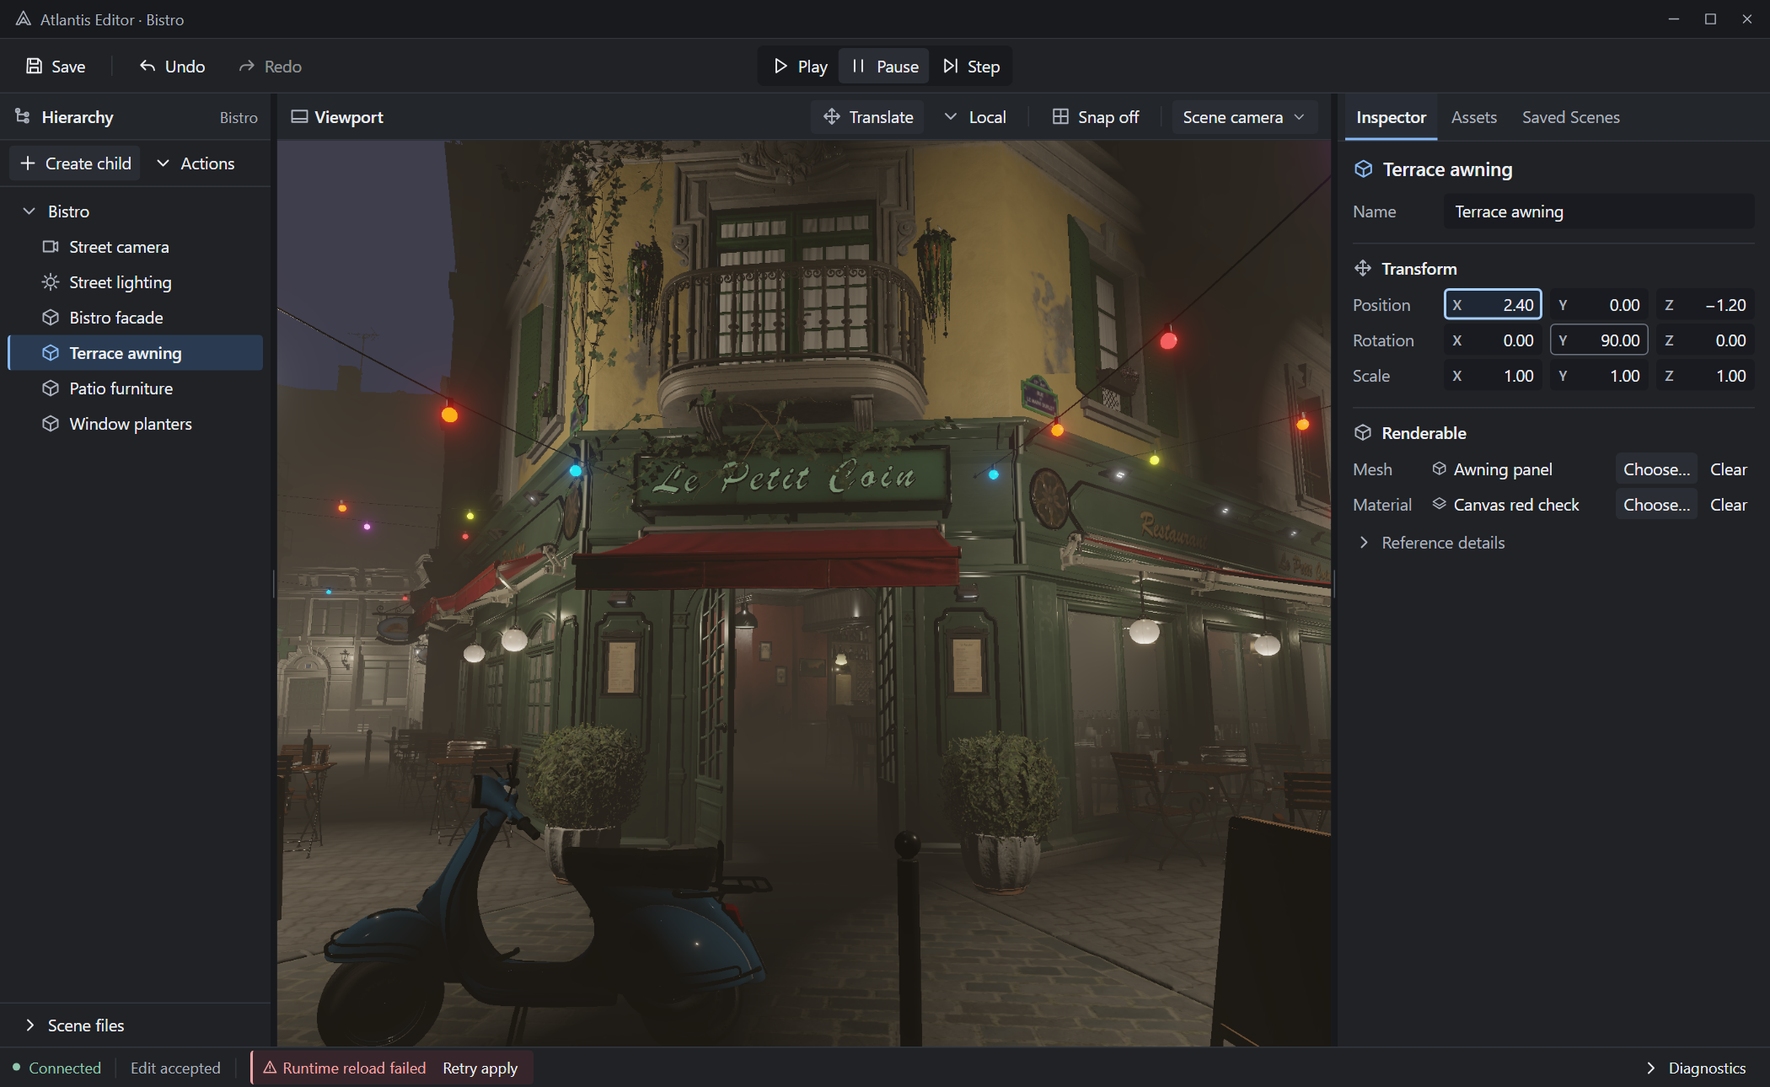
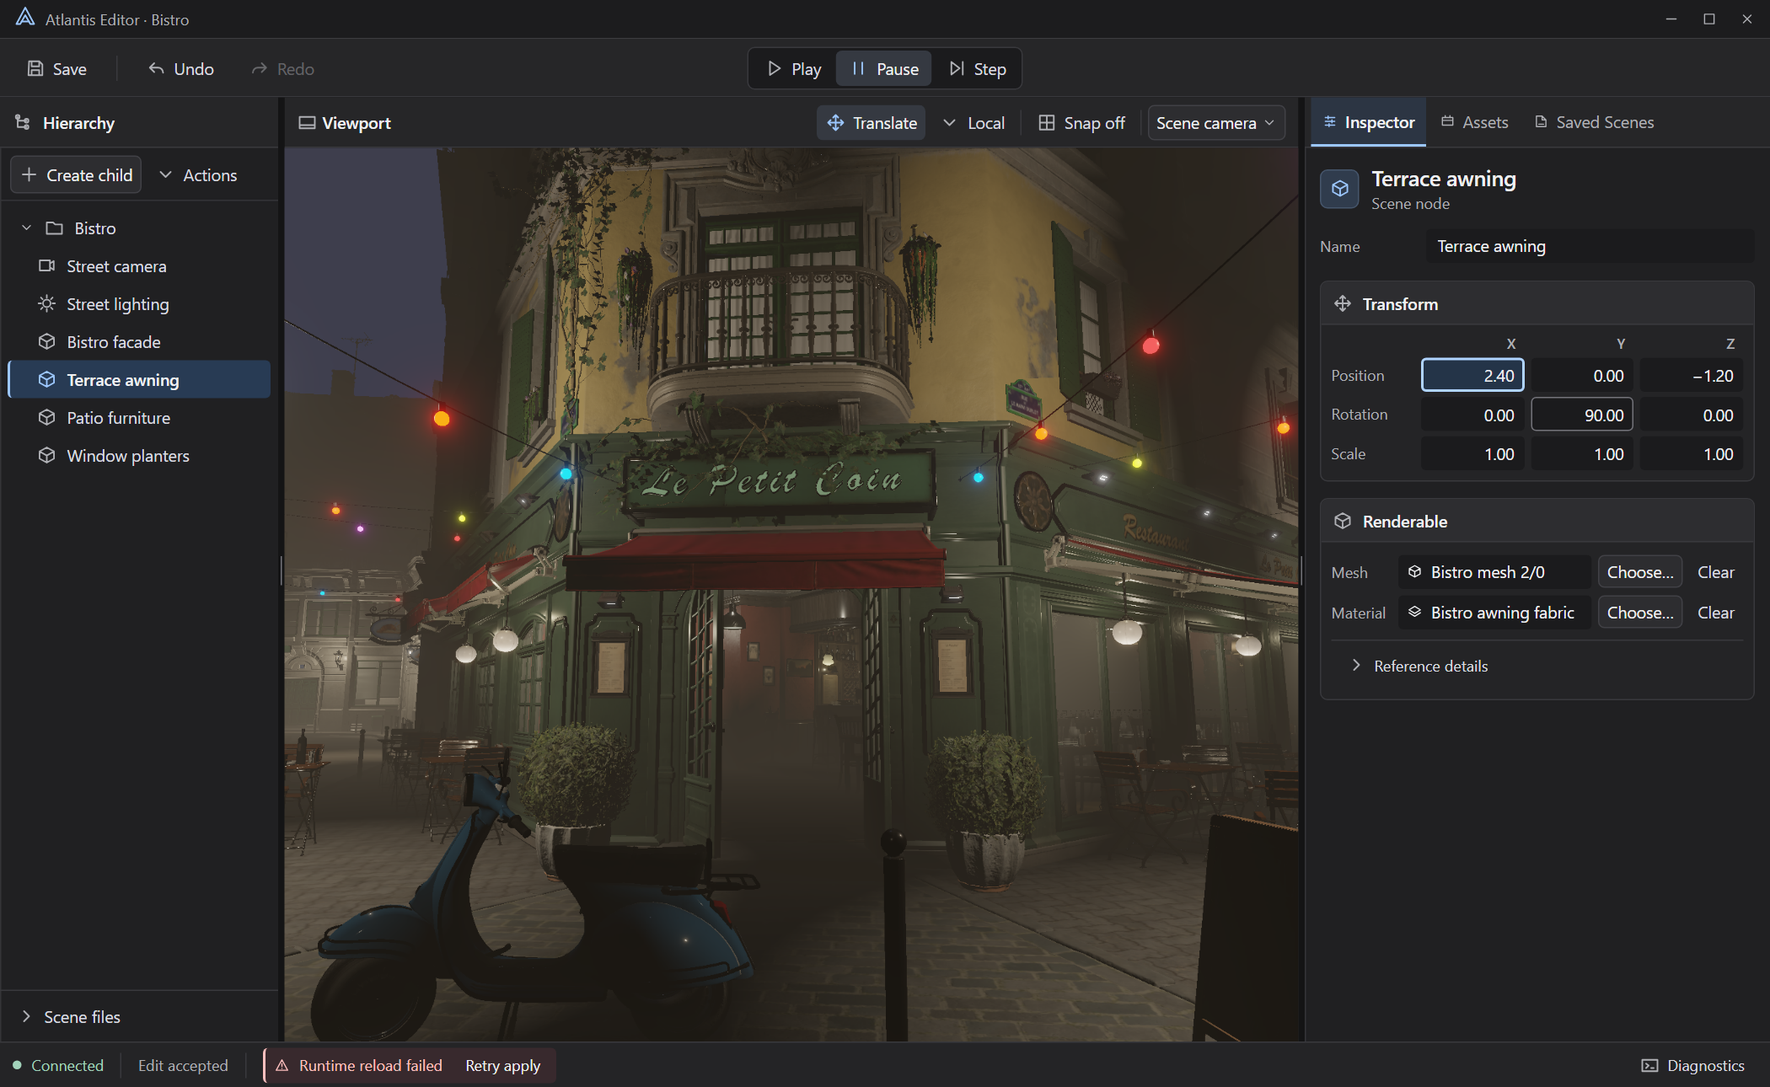
spec: refine the three-pane editor visual design

diff --git a/docs/specs/0093-editor-visual-layout.md b/docs/specs/0093-editor-visual-layout.md
@@ -9,7 +9,7 @@
 
 ## Summary
 
-Give the Windows Atlantis Editor App a compact graphite layout. Put scene
+Refine the Windows Atlantis Editor App's three-pane layout in neutral dark gray. Put scene
 commands next to the work they affect, make selection and keyboard focus
 easy to distinguish, and put object names, asset names and previews ahead
 of identifiers and diagnostics.
@@ -49,8 +49,8 @@ capabilities, Runtime rendering changes, and changes to the native debug Editor.
 
 ### Functional
 
-**R1. Window and panes.** For the recommended layout A, retain the native
-Windows title bar, three resizable Hierarchy / Viewport / right workspace
+**R1. Window and panes.** Retain the native Windows
+title bar, three resizable Hierarchy / Viewport / right workspace
 panes, and the existing Inspector, Assets and conditional Saved Scenes tabs.
 Put Save and Undo/Redo at the left of a common command row, and group
 Play/Pause/Step at its center. Keep Create child near the tree and put the
@@ -64,56 +64,70 @@ document and Runtime results visible in a compact strip. Reflow within the
 same panes at small widths. Keep managed controls and feedback outside the
 native child Viewport's bounds.
 
-**R2. Type, density and states.** Use neutral graphite Fluent resources and
-the Windows-installed Segoe UI family with system fallback. Start with 13 DIP
-for controls and panel headings, 12 DIP for secondary text, 15 DIP for the
-selected object name and 18 DIP for the chooser title. Use moderate heading
-weights and distinguish component groups by spacing and dividers. Use a
-4 / 8 / 12 / 16 DIP spacing scale and a common 28 DIP one-line rhythm for
-commands, list rows and properties. Grow controls where needed for text,
-focus rings or constrained layouts. Use project-authored line icons in
-16 DIP boxes with consistent stroke and optical alignment; keep command
-labels and accessible names, including Undo/Redo descriptions.
+**R2. Type, surfaces and states.** Use the existing Fluent controls and the
+Windows-installed Segoe UI family with system fallback. Start with 13 DIP
+for controls and panel or component labels, 12 DIP for secondary text,
+17 DIP for the selected object name and 22 DIP for the chooser title.
+Separate toolbar and panel headers, panel bodies, and inset input and list
+surfaces by lightness in a neutral dark gray palette. Give property groups
+a compact header and boundary so they can be scanned as units. Use the
+4 / 8 / 12 / 16 DIP spacing scale and a 30 DIP one-line rhythm. Grow
+controls for long text or constrained layouts as needed.
 
-Use slight surface differences for ordinary fields and flat actions;
-strengthen outlines on hover and show a distinct keyboard focus ring.
-Use a tinted row with a leading marker for selection and an underline for
-active tabs. Reserve blue for selection, focus and primary actions. Align
-Position, Rotation and Scale on the same three numeric columns. Put small
-text labels X/Y/Z before tabular, right-aligned values and keep each
-field's property and axis available to assistive technology. When the
-three columns no longer fit, reflow without clipping digits or changing
-the keyboard sequence. Require 4.5:1 contrast for enabled text and 3:1
-for focus and essential control boundaries, including search when at
-rest. Use text and, when helpful, an icon to communicate status.
+Use project-authored line icons with a common 16 DIP grid, stroke and
+optical weight. A smaller icon may accompany tab labels or disclosure
+controls. Keep visible command labels and accessible names, including
+Undo/Redo descriptions. Use subdued boundaries at rest, strengthen them
+on hover and show a distinct focus ring. Reserve blue for selection, focus
+and primary actions. Keep text and status icons for errors and warnings.
+Require 4.5:1 contrast for enabled text and 3:1 for focus and essential
+control boundaries, including search when at rest.
 
-**R3. Information hierarchy and chooser.** Show the selected object name
-above component groups. Show asset names before type labels and identifiers
-in list and reference rows. Use names from asset data already available in
-the current session; fall back to a labeled reference or short identifier
-if unavailable. Add no lookups, prefetch or snapshot changes for labels.
-Put full paths, GUIDs and existing metadata in secondary details: allow
-selection and copying of complete text, and retain raw GUID editing
-where the Inspector already permits it. Keep Choose and existing Clear
-guards on the primary reference row. Give raw editing a labeled,
-keyboard-reachable disclosure; preserve the same field bindings, validation
-and draft settlement on ordinary blur, Enter, Escape and chooser opening.
-Keep long names discoverable in full. A disclosure or reflow must not
-silently discard a draft or trigger a second commit.
+Use one set of X/Y/Z column headings for the Transform group. Align
+Position, Rotation and Scale against those headings and use tabular,
+right-aligned values. Keep each field's property and axis available to
+assistive technology. When columns cannot fit, repeat the axis labels in
+the reflow and preserve value precision, the draft and keyboard order.
 
-Use one chooser layout for search, candidate selection, optional preview
-and Confirm/Cancel. Keep search and the action footer outside the scrolling
-body. Show the selected asset name next to its type and keep **Asset
-details** collapsed by default; retain existing identifiers, schemas and
-dependency actions inside the disclosure, with their existing guards. Put
-normal guidance on a line of secondary text. Give the existing material
-combination path a dedicated preview area (about 296 DIP square at the
-standard size), with the opening mesh label and explicit **Preview with
-material** action above the image. Keep the full opening mesh identity
-available in secondary details. Below 720 DIP, stack the preview below
-results/details in the scrollable body. Other references keep the same
-layout without the preview column. Keep Confirm independent of preview
-admission, success or failure.
+**R3. Information hierarchy and chooser.** Give the Inspector a distinct
+selected-object header, then group editable fields by component. Keep
+asset names primary in references and list rows, with type and technical
+details secondary. Derive a short label from data already available in
+the session and fall back to a labeled reference or short identifier.
+Keep long values discoverable in full. Use a keyboard-reachable disclosure
+for raw GUID editing where the Inspector already permits it. Keep Choose
+and Clear and their existing guards near the reference value. At compact
+widths, wrap those actions below the value so the name retains usable
+width. Reflow and
+disclosure preserve the existing field binding, draft and focus rules.
+
+In Assets, pin search, type filter and **Reload view** above the scrollable
+results and selected asset area. Group existing geometry and combination
+preview, material selection and **Add to Scene** around that selected
+asset. Place Copy GUID, complete identifiers, paths and dependency
+actions in **Asset details**. Group existing Rebuild and Import controls
+in labeled sections within the same pane. Keep active and failed outcomes
+and their next actions discoverable when a section is collapsed.
+Keep the catalog snapshot guidance reachable, including when a Runtime
+restart is needed.
+
+In Saved Scenes, group the local unit list, optional managed import root,
+Build/Open and current outcome. Keep Refresh and build configuration
+with the panel header. Show whether the current result permits Open and
+put complete checkout, build directory, executable and log text in
+selectable details. Preserve local authorization, build inputs, result
+invalidation and separate Editor process ownership.
+
+In the chooser, give search and the Confirm/Cancel footer stable positions.
+Use roughly equal result and preview columns at the standard size, with
+slightly more room for the material preview. Show the opening mesh and
+explicit **Preview with material** action above a contained image. Give the
+selected candidate and Confirm a clear relationship through the footer.
+Keep identifiers, the full opening mesh identity, schemas and dependency
+actions in secondary details. Keep normal compatibility guidance as
+secondary text. Below 720 DIP stack preview below results in the scrollable
+body. The generic chooser uses the same structure without the preview.
+Confirm continues to use its existing guard independently of preview.
 
 **R4. Results and interaction.** Use existing session and operation results
 to show text for empty, loading or busy, success, disabled and failed states.
@@ -138,35 +152,36 @@ background requests, polling, or Runtime frame work.
 
 ## Proposed Design
 
-Both main window studies use the same Bistro capture, selected object,
-field values and status. They show a normal field, a selected tree row,
-an independently focused X field, and a Runtime reload error alongside
-an accepted edit. Open the PNG at original size to review type and lines.
+The revised design uses layout A. It keeps the full-height
+Hierarchy and right workspace and makes the Viewport the largest surface.
+The compact layout narrows the side panes and lets the active workspace
+scroll while the panel header and relevant filters stay in place.
 
-| Study | 100% | 150% | Tradeoff |
+| View | Before at the same size | Revised at 100% | Revised at 150% |
 | --- | --- | --- | --- |
-| **A. Three panes (recommended)** | [1400 × 860](../images/0093-editor-visual-layout/main-window.png) | [2100 × 1290](../images/0093-editor-visual-layout/main-window-150.png) | Full-height tree and Inspector support scanning and long edit sessions. At this size the Viewport gets 834 DIP, without changing the existing pane order. |
-| **B. Wide Viewport with stacked workspace (comparison)** | [1400 × 860](../images/0093-editor-visual-layout/main-window-alt.png) | [2100 × 1290](../images/0093-editor-visual-layout/main-window-alt-150.png) | Puts the tree beside the Inspector on one side and widens the Viewport to 1021 DIP. The stack splits vertical space, so the tree and property groups scroll sooner. |
-| **Material chooser (shared direction)** | [900 × 630](../images/0093-editor-visual-layout/reference-chooser.png) | [1350 × 945](../images/0093-editor-visual-layout/reference-chooser-150.png) | Search leads to a selected candidate, a large labeled preview and a fixed confirmation footer. Metadata and normal guidance stay secondary. |
+| Main window and Inspector | [1400 × 860](../images/0093-editor-visual-layout/main-window-before.png) | [1400 × 860](../images/0093-editor-visual-layout/main-window.png) | [2100 × 1290](../images/0093-editor-visual-layout/main-window-150.png) · [1440 × 900, compact](../images/0093-editor-visual-layout/main-window-compact-150.png) |
+| Assets | — | [1400 × 860](../images/0093-editor-visual-layout/assets.png) | [1440 × 900, compact](../images/0093-editor-visual-layout/assets-compact-150.png) |
+| Saved Scenes | — | [1400 × 860, build ready](../images/0093-editor-visual-layout/saved-scenes.png) | [1440 × 900, compact and stale](../images/0093-editor-visual-layout/saved-scenes-compact-150.png) |
+| Material chooser | [900 × 630](../images/0093-editor-visual-layout/reference-chooser-before.png) | [900 × 630](../images/0093-editor-visual-layout/reference-chooser.png) | [1350 × 945](../images/0093-editor-visual-layout/reference-chooser-150.png) · [900 × 900, compact](../images/0093-editor-visual-layout/reference-chooser-compact-150.png) |
 
-Recommend A for the first delivery: it preserves useful height in both
-side panes at small window sizes and requires less change to pane order,
-resizing and keyboard traversal. B is for review only. If preferred,
-revise and approve the plan for that layout before implementation.
-Only one layout ships.
+The matched comparisons re-render the preceding A and chooser layouts
+using the same scene, sample values, candidate list and actual preview as
+the revised designs. The 2044 × 1411 Bistro scene capture is shared across
+all main window images. Geometry and combination images come from the
+existing Runtime preview calls for Bistro mesh `5dcf249d-1d02-8cb1-b6c8-e1006682c68b`.
+The combination uses the catalog's Showcase wood reddish stain material
+`057d2d26-8bb6-4a8a-a05a-39ec65a84857`. Both are the existing 256 × 256
+PNG output. Scene capture and preview retain their colors. UI states and
+Saved Scenes examples are staged for design review. The mockups render
+each display scale independently on Windows with Segoe UI.
 
-The mockups render each scale independently on Windows with Segoe UI.
-Both main views use the same 2044 × 1411 Atlantis Runtime capture, cropped
-to fit each Viewport. The chooser uses the existing 256 × 256 Atlantis
-combination-preview golden as an illustrative sample in its larger display
-area; this changes neither capture resolution nor golden files.
-
-Use graphite `#17191D`, pane `#202226`, raised surface `#23262B`,
-field `#191B20`, text `#ECEEF1` and secondary text `#ADB3BE`. Use
-`#2A3B51` with a `#86B9F6` marker for selection, `#A6CEFF` for focus,
-and `#84B8F3` with `#121C29` text for the primary action.
-Use `#6B737F` for essential outlines; semantic foregrounds include
-`#91C7AE` success, `#E4BE81` warning and `#F3A4A7` failure.
+Use `#181819` for the canvas, `#202022` for panes, `#262628` for headers,
+`#2D2D30` for raised controls, `#1B1B1D` for insets and `#39393D`
+for separators. Use `#EFF0F2` for primary and `#AFB0B5` for secondary text.
+Use `#283B54` with a `#9CC7FF` marker for selection, `#B0D4FF` for
+focus, and `#A5CAFF` with `#142032` text for a primary action. Use
+`#74747B` for essential outlines. Use `#A2D3BB` for success,
+`#F1C990` for warnings and `#FFC0BF` for failure.
 
 | Official reference | Rule adopted for Atlantis |
 | --- | --- |
@@ -191,10 +206,11 @@ Runtime, native rendering and build inputs remain unchanged.
 
 ## Alternatives Considered
 
-The two layouts above compare different panel placement at the same density.
-Changing only colors and spacing would leave command placement and metadata
-hierarchy unresolved. A new theme dependency or docking system would add
-integration and behavior beyond this design.
+The earlier wide Viewport study stacked Hierarchy over Inspector and
+reduced the height available to each. The three-pane layout better
+supports sustained tree and property work at compact sizes. Colors and
+spacing alone would leave property scanning, action placement and result
+hierarchy unresolved. Keep the present window and Fluent architecture.
 
 ## Testing & Verification Plan
 
@@ -206,8 +222,8 @@ nor engine image baselines.
 
 ## Risks & Open Questions
 
-Choose A or B and approve the visual and information hierarchy before
-implementation. The main risks are keeping the native child HWND aligned
+Review the refined three-pane direction, typography, panel grouping and
+compact behavior before implementation. The main risks are keeping the native child HWND aligned
 during resize and preserving field focus and draft settlement through
 disclosures and reflow. The Plan tests both explicitly.
 

diff --git a/docs/plans/0093-editor-visual-layout.md b/docs/plans/0093-editor-visual-layout.md
@@ -12,24 +12,22 @@ while preserving current actions, authority, and state transitions.
 
 ## Milestones / Task Breakdown
 
-1. **S1. Joint review.** Compare the [design studies](../specs/0093-editor-visual-layout.md#proposed-design)
-   at 100% and 150%. Choose one layout, agree on J1–J4, and explicitly
-   authorize implementation through verification and a review-ready PR
-   after design merge. The remaining steps assume A; revise the Plan
-   before implementation if B is selected.
+1. **S1. Joint review.** Compare the [matched design studies](../specs/0093-editor-visual-layout.md#proposed-design).
+   Review the refined three-pane layout, including the Assets, Saved Scenes
+   and compact studies. Confirm J1–J4 and explicitly authorize
+   implementation through verification and a review-ready PR after merge.
 2. **S2. Styles and main window (R1/R2/R4).** Register Editor-private Fluent
-   resources and original icon paths. Recompose existing controls into the
-   command row, Viewport toolbar, three panes, status strip and disclosures.
-   Preserve all actions, sizing, pointer routes and keyboard bindings.
-   Apply the common row rhythm to the tree, Inspector, Assets and Saved Scenes.
-   Align Transform axes and distinguish selection, active tabs, hover and focus.
-3. **S3. Asset details, chooser and compact flow (R2/R3/R4).** Use existing
-   asset names with a local fallback. Move full identifiers and metadata
-   into labeled secondary details. Keep the existing raw GUID editor and
-   guarded Choose/Clear actions in the Inspector. Give the two chooser
-   variants a common structure, pinned search and footer, and a reflowing
-   material preview. Preserve field draft, eligibility, focus restoration,
-   preview request and invalidation rules.
+   resources and original icon paths. Use the existing layout, list, tab,
+   text and disclosure controls to recompose the command row, Viewport
+   toolbar, panes, status strip and details. Establish the object and
+   component hierarchy and a shared set of Transform column headings.
+   Preserve existing pointer routes, field bindings and keyboard order.
+3. **S3. Workspace tabs and chooser (R2/R3/R4).** Group the current Assets
+   list, selected asset, preview, Rebuild and Import controls. Group Saved
+   Scenes inputs, results and logs. Keep stable search and confirmation
+   regions in the chooser and reflow the preview at narrow sizes.
+   Preserve current guards, draft settlement, selection, focus restoration,
+   request intent and existing error recovery.
 4. **S4. Verify and submit.** Run the affected suites and the Windows matrix
    below. Attach native-resolution captures, interaction results and final
    gate selection to a review-ready PR for human merge.
@@ -60,9 +58,9 @@ Preserve [0082 reference editing](../specs/0082-generic-asset-reference-picker.m
 
 | Decision | Recommendation |
 | --- | --- |
-| **J1. Window layout** | Approve A: three resizable panes, centered transport, local hierarchy and Viewport tools, inline scene file commands and a separate diagnostics section. Keep B as a comparison only. |
-| **J2. Visual system and resources** | Approve the compact graphite direction, moderate Segoe UI hierarchy, restrained outlines, aligned XYZ columns and project-authored line icons. Keep existing dependencies and native window chrome. |
-| **J3. Details, chooser and state** | Approve name-first rows and keyboard-reachable secondary details with current GUID editing and dependency actions. Keep the chooser preview explicit and independent of Confirm; preserve existing focus, draft, apply and recovery rules. |
+| **J1. Window layout** | Approve the refined three-pane layout, centered transport, local Viewport tools, inline scene file commands and compact workspace scrolling. |
+| **J2. Visual system and resources** | Approve neutral dark gray surfaces, the Segoe UI hierarchy, aligned XYZ columns and project-authored line icons in existing controls. |
+| **J3. Details, chooser and state** | Approve grouping for Assets and Saved Scenes, reachable technical details and the preview/confirmation proportions. Preserve existing focus, draft, apply, build/open and recovery rules. |
 | **J4. Acceptance** | Approve the actual Windows size/DPI matrix, long-content and interaction checks, and final-diff gate selection below. |
 
 ## Verification Checklist
@@ -75,7 +73,9 @@ Preserve [0082 reference editing](../specs/0082-generic-asset-reference-picker.m
   transition. Move one instance between differently scaled monitors when
   available, or exercise it through a Windows scale change and report the
   substitution. Capture native-resolution main and material-chooser
-  windows at 100% and higher scaling. Check clean text and icons, usable
+  windows at 100% and higher scaling. Capture Assets and Saved Scenes at
+  standard and compact sizes with preview and current build outcomes.
+  Check clean text and icons, usable
   pane widths, reachable actions, no clipping, and no child viewport
   overlap or input offset.
 - [ ] **R2/R3. Density, contrast and long content.** Compare the approved
@@ -95,10 +95,15 @@ Preserve [0082 reference editing](../specs/0082-generic-asset-reference-picker.m
   Choose, Cancel and Confirm with focus restoration; verify the current
   rules for guarded Clear, stale or filtered-out candidates and full
   metadata/dependency access. Check Assets empty/loading/busy/refused
-  states and an explicit preview retry. Switch candidates during an
+  states and an explicit preview retry. Verify that filter and Reload view
+  stay reachable when the preview or details scroll. Exercise the existing
+  Rebuild and Import entry points and verify busy or failed results and
+  their next actions remain reachable through the grouping. Switch candidates during an
   outstanding preview: no stale image or error may reappear and Confirm
   follows its existing guard. Check inline New Scene / Save As and
-  Saved Scenes build/open results when available. Exercise an authoring
+  Saved Scenes build/open when available. Check successful build and
+  independent Open, stale results with Open disabled, a failed build and
+  retry, and copyable checkout, output and log paths. Exercise an authoring
   edit with a visible failed or paused apply result, explicit recovery,
   Undo/Redo, Save and the Viewport gizmo. Record normal Runtime exit and
   a clean Windows Vulkan validation log during this session.
@@ -110,7 +115,8 @@ Preserve [0082 reference editing](../specs/0082-generic-asset-reference-picker.m
   select a gate, follow the existing policy, including human review of
   any engine golden change. Keep the separate #340 historical hold.
 - [ ] **Design PR.** Check local links, whitespace, palette contrast and
-  mockup legibility at 100% and 150% rendered independently. These
+  mockup legibility at 100% and 150% rendered independently. Compare
+  main window and chooser before/after at the same logical dimensions. These
   studies support visual review; the actual Windows matrix remains
   implementation acceptance.
 
